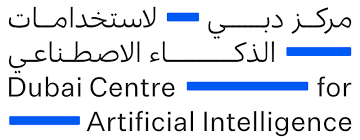
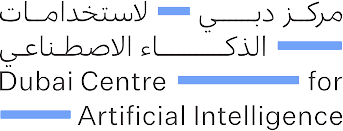
fix: trim every partner mark to its ink bounds so one height means one height
The logos looked randomly sized because a shared CSS height was sizing each
file's built-in padding, not its artwork. ai-campus was a 225x225 file holding
a 169x27 mark: 88% of what the height was scaling was empty space, so it
rendered a fraction of its neighbours. innovation-hub was 400x400 around a
358x88 mark. Every file had a different margin.

So every mark is now cropped to its actual ink. Two definitions were needed
because the files are two kinds: alpha above a floor for the one transparent
PNG, distance from white for the ten that were flattened onto a white ground.
Those ten also get keyed to alpha at build time, which retires the
invert-and-screen trick entirely: a plain brightness(0) invert(1) now turns
each mark pure white with nothing behind it and no blend mode.

With the padding gone, all eleven sit at exactly 48px. Measured, not assumed:
one unique height across the row.

The width cap is there for the horizontal lockups. A 6:1 wordmark at the same
height as a square emblem would be six times wider and swallow the row, so the
longest one hits the cap and letterboxes to about 37px inside its box rather
than distorting. Everything else fills its height.

Heading moved to the top of the panel so the wall has the room.

Originals kept in assets/partners-src, since trimming is destructive.

Changed region(s): [[0.0, 0.2748, 1.0, 0.7023], [0.0, 0.0, 1.0, 0.2748], [0.0, 0.7939, 1.0, 1.0]]

diff --git a/landing.css b/landing.css
@@ -1221,6 +1221,16 @@ html {
     text-align: center;
 }
 
+/* Copy toward the top of the panel so the content below it gets the room. */
+.vp.top-copy {
+    align-items: start;
+}
+
+.vp.top-copy .vp-copy {
+    padding-top: clamp(7rem, 16vh, 11rem);
+    padding-bottom: clamp(3rem, 6vh, 4rem);
+}
+
 .vp.centre .t-body,
 .vp.centre .t-fade {
     margin-inline: auto;
@@ -1448,32 +1458,40 @@ html {
 /* ===== Logo wall ========================================================
    No grid, no cells, no borders. A grid needs its last row filled or it hangs
    an empty box off the end, and every divider it draws is another rectangle on
-   a page that is trying not to have any. Wrapping flex centres each row on its
-   own and simply stops when it runs out of marks.
+   a page trying not to have any. Wrapping flex centres each row on its own and
+   stops when it runs out of marks.
 
-   The files are dark artwork on a white ground with no alpha: inverting turns
-   the ground black and the mark light, and screening drops that black out
-   against the page, so each one sits on nothing at all. */
+   SIZING. Every file is pre-trimmed to its ink bounds, which is the whole
+   trick: before that, ai-campus was a 225x225 file holding a 169x27 mark, so
+   a shared CSS height was sizing 88% padding and the row looked random. With
+   the padding gone, one height genuinely means one height.
+
+   The width cap is for the horizontal lockups. A 6:1 wordmark set to the same
+   height as a square emblem would be six times wider and swallow the row, so
+   it hits the cap and sits slightly shorter instead. Ten of the eleven land on
+   the exact same height; only the longest lockup does not.
+
+   The artwork is keyed to alpha at build time, so brightness(0) invert(1)
+   turns each mark pure white with no blend mode and nothing behind it. */
 
 .logo-wall {
     display: flex;
     flex-wrap: wrap;
     align-items: center;
     justify-content: center;
-    column-gap: clamp(2.5rem, 6vw, 5.5rem);
-    row-gap: clamp(2.5rem, 5vw, 4.5rem);
-    max-width: 74rem;
+    column-gap: clamp(2.2rem, 5vw, 4.5rem);
+    row-gap: clamp(2.2rem, 4.5vw, 3.5rem);
+    max-width: 76rem;
     margin-inline: auto;
 }
 
 .logo-wall img {
-    height: clamp(40px, 5.2vw, 72px);
+    height: clamp(30px, 3.6vw, 48px);
     width: auto;
-    max-width: 260px;
+    max-width: clamp(150px, 17vw, 230px);
     object-fit: contain;
-    filter: invert(1) grayscale(1) brightness(1.15);
-    mix-blend-mode: screen;
-    opacity: 0.55;
+    filter: brightness(0) invert(1);
+    opacity: 0.62;
     transition: opacity 0.4s var(--ease), transform 0.4s var(--ease);
 }
 

diff --git a/index.html b/index.html
@@ -402,7 +402,7 @@
          Full height, marks floating on the page. No grid: it would hang an
          empty cell off the end of eleven logos and draw a rectangle around
          each one. -->
-    <section class="vp plain tint centre" id="ecosystem">
+    <section class="vp plain tint centre top-copy" id="ecosystem">
         <div class="shell vp-copy">
             <div class="reveal" style="max-width:34rem;margin-inline:auto">
                 <p class="lbl"><b>07</b>Our ecosystem</p>
@@ -415,17 +415,17 @@
                 </p>
             </div>
 
-            <div class="logo-wall reveal" style="--d:140ms;margin-top:clamp(3rem,7vh,5.5rem)">
+            <div class="logo-wall reveal" style="--d:140ms;margin-top:clamp(2.5rem,6vh,4.5rem)">
                 <img src="assets/partners/difc.png" alt="DIFC" loading="lazy" decoding="async">
                 <img src="assets/partners/ai-campus.png" alt="AI Campus" loading="lazy" decoding="async">
-                <img src="assets/partners/innovation-hub.jpg" alt="DIFC Innovation Hub" loading="lazy" decoding="async">
+                <img src="assets/partners/innovation-hub.png" alt="DIFC Innovation Hub" loading="lazy" decoding="async">
                 <img src="assets/partners/centre-of-ai.png" alt="Dubai Centre for Artificial Intelligence" loading="lazy" decoding="async">
                 <img src="assets/partners/det.png" alt="Dubai Department of Economy and Tourism" loading="lazy" decoding="async">
                 <img src="assets/partners/chambers.png" alt="Dubai Chambers" loading="lazy" decoding="async">
-                <img src="assets/partners/dff.jpg" alt="Dubai Future Foundation" loading="lazy" decoding="async">
-                <img src="assets/partners/ministry-econ-tourism.jpg" alt="Ministry of Economy and Tourism" loading="lazy" decoding="async">
+                <img src="assets/partners/dff.png" alt="Dubai Future Foundation" loading="lazy" decoding="async">
+                <img src="assets/partners/ministry-econ-tourism.png" alt="Ministry of Economy and Tourism" loading="lazy" decoding="async">
                 <img src="assets/partners/moiat.png" alt="Ministry of Industry and Advanced Technology" loading="lazy" decoding="async">
-                <img src="assets/partners/d33.jpg" alt="Made in the Emirates" loading="lazy" decoding="async">
+                <img src="assets/partners/d33.png" alt="Made in the Emirates" loading="lazy" decoding="async">
                 <img src="assets/partners/jumeirah.png" alt="Jumeirah" loading="lazy" decoding="async">
             </div>
         </div>
